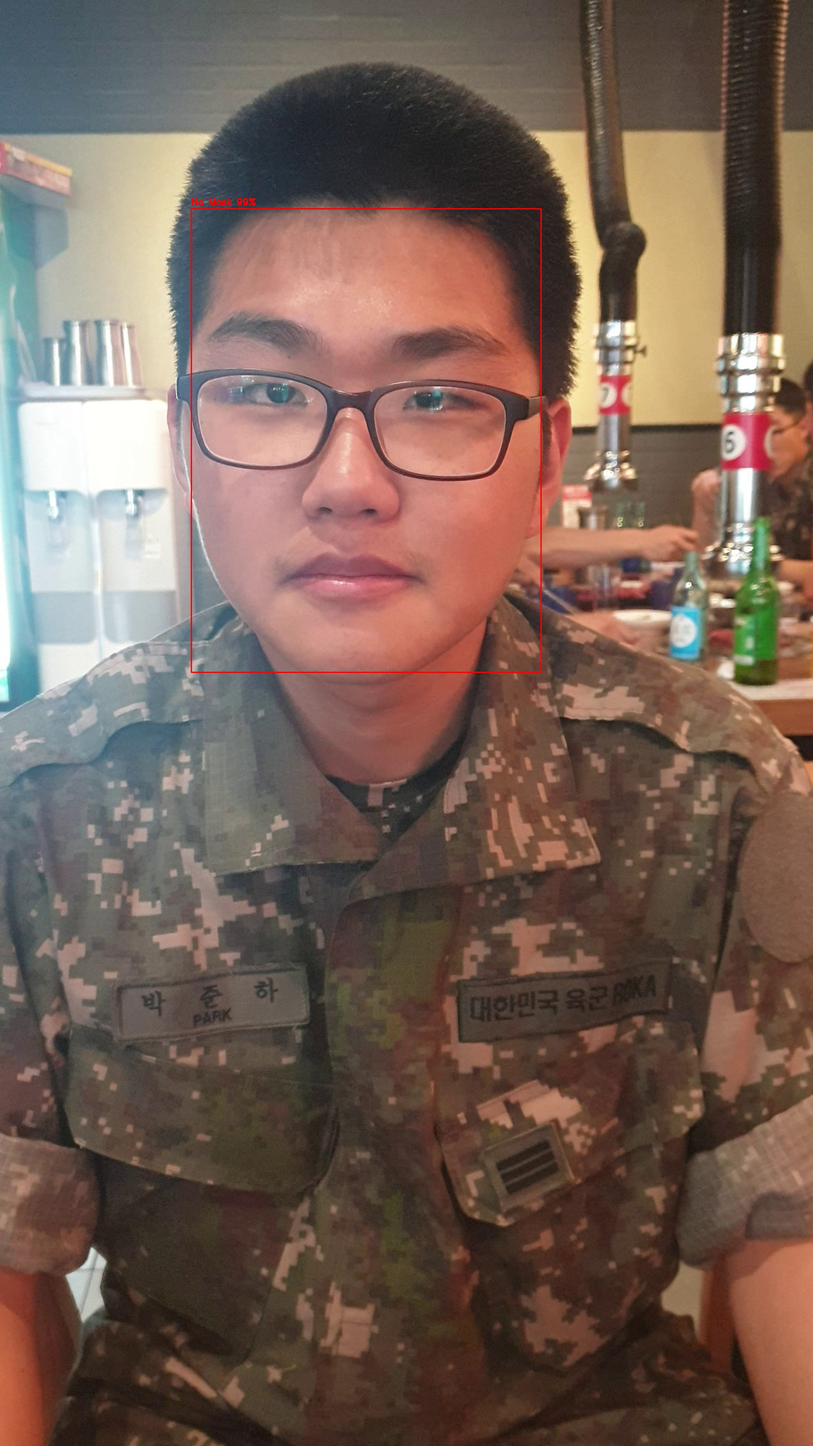
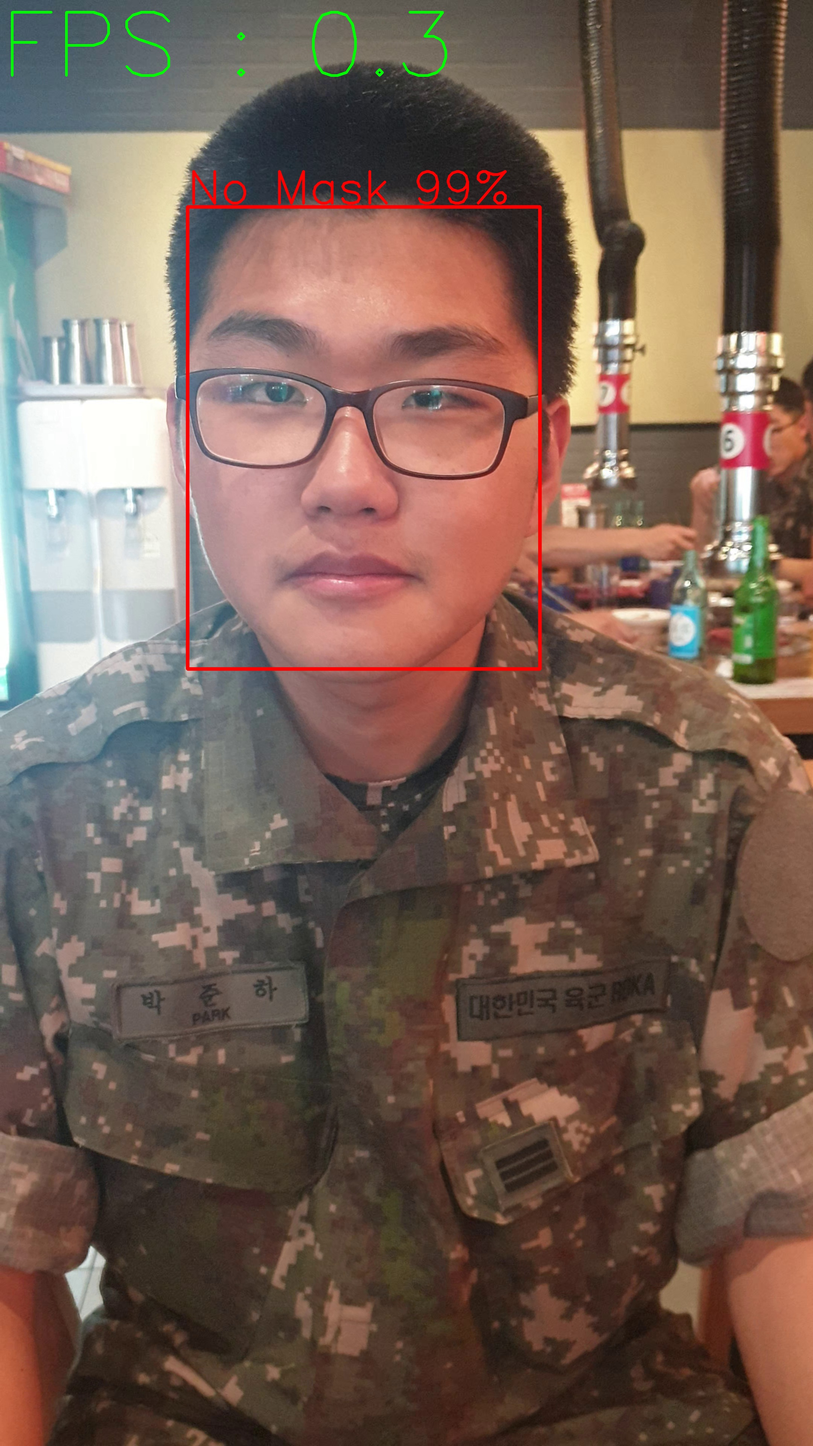
uimainpython03.py 실행하기

diff --git a/ui_main_python03.py b/ui_main_python03.py
@@ -1,5 +1,29 @@
 import sys
 
+# Data Set을 만들어서 학습.
+from tensorflow.keras.applications.mobilenet_v2 import preprocess_input
+from tensorflow.keras.models import load_model
+import numpy as np
+import cv2
+# import matplotlib.pyplot as plt
+import os, io
+import json
+import requests
+from google.cloud import vision
+#########################################################################텔레그렘 수정 내용
+import telepot
+
+
+import sys
+
+
+
+
+from collections import deque
+
+import time
+
+
 # import some PyQt5 modules
 from PyQt5.QtWidgets import QApplication
 from PyQt5.QtWidgets import QWidget
@@ -12,6 +36,24 @@ import cv2
 
 from ui_main_window_test03 import *
 
+
+
+
+
+
+
+# 구글 API 설정
+os.environ['GOOGLE_APPLICATION_CREDENTIALS'] = r'ServiceAccountToken.json'
+client = vision.ImageAnnotatorClient()
+
+
+facenet = cv2.dnn.readNet('MaskDetection/models/deploy.prototxt', 'MaskDetection/models/res10_300x300_ssd_iter_140000.caffemodel')
+# FaceDetector 모델 > OpenCv의 DNN
+model = load_model('MaskDetection/models/mask_detector.model')
+
+
+
+
 class MainWindow(QWidget):
     # class constructor
     def __init__(self):
@@ -19,6 +61,9 @@ class MainWindow(QWidget):
         super().__init__()
         self.ui = Ui_Form()
         self.ui.setupUi(self)
+        self.textdq = deque([])
+        self.prevTime = 0
+        self.number = 0
 
         # create a timer
         self.timer = QTimer()
@@ -31,13 +76,242 @@ class MainWindow(QWidget):
         self.timer.start(20)
 
 
-
+    def label_2_text(self, textdq):
+        TEXT = ""
+        if len(self.textdq) > 10:
+            textdq.pop()
+        for text in textdq:
+            TEXT += text + '\n'
+        self.ui.label_2.setText(TEXT)
     # view camera
     def viewCam(self):
+        ret, img = self.cap.read()
+        img = cv2.rotate(img, cv2.ROTATE_90_CLOCKWISE)
+        # 프레임
+        curTime = time.time()
+        sec = curTime - self.prevTime
+        self.prevTime = curTime
+        fps = 1/(sec)
+        FPS = "FPS : %0.1f" % fps
+        cv2.putText(img, FPS, (0, 200), cv2.FONT_HERSHEY_SIMPLEX, 8, (0, 255, 0), thickness=5)
         # read image in BGR format
-        ret, image = self.cap.read()
-        image = cv2.rotate(image, cv2.ROTATE_90_CLOCKWISE)
-        image = cv2.resize(image, dsize=(0, 0), fx=0.2, fy=0.2, interpolation=cv2.INTER_LINEAR)
+        
+
+        h, w = img.shape[:2]
+
+        blob = cv2.dnn.blobFromImage(img, scalefactor=1., size=(300, 300), mean=(104., 177., 123.))
+        # Preprocessing. OpenCV의 FaceNet에서 학습시킨대로 Param값을 넣어줌. DNN이 사용하는 형태로 이미지 변환
+        # cv2.dnn.blobFromImage함수가 하는 일은 1. Mean subtraction (평균 빼기) / 2.Scaling (이미지 사이즈 바꾸기) / 3.And optionally channel swapping (옵션, 이미지 채널 바꾸기)
+        # (104.0,177.0, 123.0)는 mean subtraction의 경험적 최적값. 그럼 mean subtraction이란 RGB값의 일부를 제외해서 dnn이 분석하기 쉽게 단순화해주는 것.
+        # (300,300) : dnn모듈이 CNN으로 처리하기 좋은 이미지 사이즈, 모델이 300,300으로 고정
+
+        facenet.setInput(blob)  # 변환해준 이미지 FaceNet의 input
+        dets = facenet.forward()  # facedection 결과 저장
+        result_img = img.copy()
+
+        # detect face 한뒤, 그 얼굴영역이 마스크 썼을 확률을 계산하여 추가한다.
+        for i in range(dets.shape[2]):  # 저장이 된 것을 loop을 돌면서 저장. detections.shape[2]는 모델이 가져오는 최대 박스의 갯수. 200이므로 최대 200개의 얼굴을 인식할수 있다.
+            confidence = dets[0, 0, i, 2]
+            # 검사하는데 detection의 결과가 자신있는 정도.
+            # detections[0, 0]은 우리가 그릴 박스"들"의 속성
+            # 따라서 i는 현재 i번째 박스. 2는 세번째 속성이 의미하는데 이게 얼굴일 확률을 나타냄.
+            if confidence < 0.5:
+                continue
+
+            x1 = int(dets[0, 0, i, 3] * w)  # bounding 박스 구해주기
+            y1 = int(dets[0, 0, i, 4] * h)
+            x2 = int(dets[0, 0, i, 5] * w)
+            y2 = int(dets[0, 0, i, 6] * h)
+            # print(i, confidence, x1, y1, x2, y2) i는 몇번째 얼굴인지, cofidence는 실제 얼굴이맞을 확률. 그 뒤는 좌표
+            face = img[y1:y2, x1:x2]  # bounding Box을 통해 얼굴만 저장
+
+            # 마스크를 썼나 안썼나 예측
+            # 전처리하는 부분
+            face_input = cv2.resize(face, dsize=(224, 224))  # 이미지 크기 변경
+            face_input = cv2.cvtColor(face_input, cv2.COLOR_BGR2RGB)  # 이미지의 컬러시스템 변경
+            face_input = preprocess_input(face_input)  # mobileNetV2에서 하는 preprocessing과 똑같이 하기위해 처리
+            face_input = np.expand_dims(face_input, axis=0)  # 이렇게 하면 shape이 (224,224,3) 으로 나오는데 넣을때는 (1,224,224,3)이 되어야 하므로 차원하나 추가
+
+            mask, nomask = model.predict(face_input).squeeze()  # load해놓은 모델에 predict method를 통해, 마스크 여부 확률을 반환
+
+            if mask > nomask:
+                color = (0, 255, 0)
+                label = 'Mask %d%%' % (mask * 100)
+            else:
+                color = (0, 0, 255)
+                label = 'No Mask %d%%' % (nomask * 100)
+
+            # mask 썼을확률 계산후 그에대한 결과를 보여주는 곳. 해당 얼굴영역보다 이전 인덱스는 이미 계산되어 이미지에 저장되어 있다.
+            cv2.rectangle(result_img, pt1=(x1, y1), pt2=(x2, y2), thickness=7, color=color, lineType=cv2.LINE_AA)
+            # 계산된 결과를 현재 돌아가고 있는 얼굴영역 위에 Text를 써줌으로써 표시한다. 마스크 썼을확률은 label에 들어있음.
+            cv2.putText(result_img, text=label, org=(x1, y1 - 10), fontFace=cv2.FONT_HERSHEY_SIMPLEX, fontScale=4, color=color, thickness=6, lineType=cv2.LINE_AA)
+
+            # 마스크 안썻을 확률이 일정확률 이상인 경우
+            if nomask >= 0.75:
+                # 해당 인원 사진 저장
+                #self.dq.appendleft(face)
+                # if len(self.dq)==4:
+                #     self.dq.pop()
+                self.number += 1
+                saved_file = 'No_Mask_File/' + str(i)+'_'+str('No_Mask%d%%_' % (nomask * 100) + str(self.number)) + '.jpg'
+                cv2.imwrite(saved_file, result_img)
+                #self.put_img_to_labels(self.dq)
+                temperature = 36.5  # 현재 온도 변수가 없으므로 임시로 설정
+
+
+                #############################################################################
+                # GoogleVisionAPI branch  에서 추가한 내용
+                IMAGE_FILE = 'No_Mask_File/' + str(i) + '_' + str('No_Mask%d%%_' % (nomask * 100) + str(self.number)) + '.jpg'
+                # FOLDER_PATH = r'C:\Users\Administrator\anaconda3\envs\VisionAPIDemo'
+                # FILE_PATH = os.path.join(FOLDER_PATH, IMAGE_FILE)
+                # Name_img = img[y2:h, 0:(x1+x2)/2]
+
+                # with io.open(Name_img, 'rb') as image_file:
+                #     content = image_file.read()
+
+
+
+                """
+                name_img = img[y2:h, 0:(x1+x2)//2]
+                is_success, im_buf_arr = cv2.imencode(".jpg",name_img)
+                io_buf = io.BytesIO(im_buf_arr)
+                byte_im = io_buf.getvalue()
+                image = vision.Image(content=byte_im)
+                response = client.document_text_detection(image=image)
+                docText = response.full_text_annotation.text
+                """
+
+
+
+                # with io.open(IMAGE_FILE, 'rb') as image_file:
+                #     content = image_file.read()
+
+                # image = vision.Image(content=content)
+                # response = client.document_text_detection(image=image)
+                # docText = response.full_text_annotation.text
+
+                with io.open(IMAGE_FILE, 'rb') as image_file:
+                    content = image_file.read()
+
+                image = vision.Image(content=content)
+                response = client.document_text_detection(image=image)
+                Final_Text = ""
+                for data in response.text_annotations:
+                    xx1 = data.bounding_poly.vertices[0].x - 60 # 박스가 너무 오른쪽으로 나옴 그래서 수정함.
+                    yy1 = data.bounding_poly.vertices[0].y
+                    xx2 = data.bounding_poly.vertices[2].x
+                    yy2 = data.bounding_poly.vertices[2].y + 20
+                    if xx1 > (x1+x2)//2 or xx2 > (x1+x2)//2:
+                        continue
+                    for x in data.description:
+                        if ord('가') <= ord(x) <= ord('힣'):
+                            cv2.rectangle(result_img, pt1=(xx1, yy1), pt2=(xx2, yy2), thickness=7, color=color, lineType=cv2.LINE_AA)
+                            Final_Text += x
+
+                #print('한글 -> ' + Final_Text)
+                #self.ui.label_2.setText(Final_Text)
+
+                    # cv2.rectangle(img, pt1=(xx1, yy1), pt2=(xx2, yy2), thickness=2, color=color, lineType=cv2.LINE_AA)
+                    # img_resize = cv2.resize(result_img, dsize=(0, 0), fx=0.2, fy=0.2, interpolation=cv2.INTER_LINEAR)
+                    # cv2.imshow('fram', img_resize)
+                    # cv2.waitKey(0)
+
+
+
+
+
+
+
+
+
+
+
+
+
+
+                """
+                # 한글만 가져오는 코드
+                Final_Text = ""
+                Flag = False
+                for x in docText:
+                    if ord('가') <= ord(x) <= ord('힣'):
+                        Flag = True
+                        Final_Text += x
+
+                print('한글 -> ' + Final_Text)
+
+                #############################################################################
+                message_description = '이름 :' + Final_Text + '\n해당인원 온도 :' + str(temperature) + '\n마스크 미착용 확률 : ' + str('%d%%' % (nomask * 100))
+                
+                
+                """
+
+                # 전달할 메시지 내용 JSON형식으로 저장후 전달
+                message_description = '이름 :' + Final_Text + '\n해당인원 온도 :' + str(temperature) + '\n마스크 미착용 확률 : ' + str('%d%%' % (nomask * 100))
+                # template = {
+                #     "object_type": "feed",
+                #     "content": {
+                #         "image_url": "IMAGE_URL, 클라이언트의 사진을 가져오거나 서버의 사진을 가져오기가 아닌 URL상에서 가져와야함",
+                #         "title": "이상증상자 및 마스크 미착용자 식별",
+                #         "description": message_description,
+                #         "image_width": 640,
+                #         "image_height": 640,
+                #         "link": {
+                #             "web_url": "http://www.daum.net",
+                #             "mobile_web_url": "http://m.daum.net",
+                #         }
+                #     }
+                # }
+                # data = {
+                #     # 허동준 UUID : MAIwCT4JPggkFiAVJhIhFCMbNwM6CzsLPnY
+                #     # 조동현 UUID : MAIzAjYFNQcxHSgaLh8qHi4aNgI7CjoKP28
+                #     # 친구목록에서 얻어온 UUID 값으로 해야 하므로 수정 필요
+                #     'receiver_uuids': '["MAIzAjYFNQcxHSgaLh8qHi4aNgI7CjoKP28"]',
+                #     "template_object": json.dumps(template)
+                # }
+                # # 메시지 전송 및 오류 검출
+                # response = requests.post(send_friend_url, headers=headers, data=data)
+                # print(response.status_code)
+                # if response.json().get('result_code') == 0:
+                #     print('메시지를 성공적으로 보냈습니다.')
+                # else:
+                #     print('메시지를 성공적으로 보내지 못했습니다. 오류메시지 : ' + str(response.json()))
+
+        #out.write(result_img)
+        #resized_img = cv2.resize(result_img, dsize=(0, 0), fx=0.3, fy=0.3, interpolation=cv2.INTER_LINEAR)
+        #cv2.imshow('result', result_img)  # 실시간 모니터링하고 있는 화면을 띄워줌
+
+
+
+
+
+
+
+
+
+
+
+
+
+
+
+
+
+
+        # # telegram 사진 문자 보내는 코드
+        # f = open(IMAGE_FILE,'rb')
+        # response = bot.sendPhoto(mc, f)
+        # response = bot.sendMessage(mc,message_description)
+
+
+        #
+        message_description2 = '이름 :' + Final_Text + ' 해당인원 온도 :' + str(temperature) + ' 마스크 미착용 확률 : ' + str('%d%%' % (nomask * 100))
+        self.textdq.appendleft(message_description2)
+    
+        self.label_2_text(self.textdq)
+        #self.ui.label_2.setText(self.textdq[0])
+        #image = cv2.rotate(image, cv2.ROTATE_90_CLOCKWISE)
+        image = cv2.resize(result_img, dsize=(0, 0), fx=0.2, fy=0.2, interpolation=cv2.INTER_LINEAR)
         # convert image to RGB format
         image = cv2.cvtColor(image, cv2.COLOR_BGR2RGB)
         # get image infos

diff --git a/ui_main_window_test03.py b/ui_main_window_test03.py
@@ -1,6 +1,6 @@
 # -*- coding: utf-8 -*-
 
-# Form implementation generated from reading ui file 'ui_main_window_test03.ui'
+# Form implementation generated from reading ui file 'ui_main_window_test02.ui'
 #
 # Created by: PyQt5 UI code generator 5.9.2
 #
@@ -11,17 +11,34 @@ from PyQt5 import QtCore, QtGui, QtWidgets
 class Ui_Form(object):
     def setupUi(self, Form):
         Form.setObjectName("Form")
-        Form.resize(903, 510)
+        Form.resize(1045, 677)
         self.horizontalLayout = QtWidgets.QHBoxLayout(Form)
         self.horizontalLayout.setObjectName("horizontalLayout")
         self.horizontalLayout_2 = QtWidgets.QHBoxLayout()
         self.horizontalLayout_2.setObjectName("horizontalLayout_2")
         self.main_video = QtWidgets.QLabel(Form)
+        self.main_video.setScaledContents(False)
         self.main_video.setObjectName("main_video")
         self.horizontalLayout_2.addWidget(self.main_video)
         self.thermal_video = QtWidgets.QLabel(Form)
+        self.thermal_video.setScaledContents(False)
         self.thermal_video.setObjectName("thermal_video")
         self.horizontalLayout_2.addWidget(self.thermal_video)
+        self.verticalLayout = QtWidgets.QVBoxLayout()
+        self.verticalLayout.setObjectName("verticalLayout")
+        self.label = QtWidgets.QLabel(Form)
+        self.label.setScaledContents(False)
+        self.label.setObjectName("label")
+        self.verticalLayout.addWidget(self.label)
+        self.label_2 = QtWidgets.QLabel(Form)
+        self.label_2.setScaledContents(False)
+        self.label_2.setObjectName("label_2")
+        self.verticalLayout.addWidget(self.label_2)
+        self.label_3 = QtWidgets.QLabel(Form)
+        self.label_3.setScaledContents(False)
+        self.label_3.setObjectName("label_3")
+        self.verticalLayout.addWidget(self.label_3)
+        self.horizontalLayout_2.addLayout(self.verticalLayout)
         self.horizontalLayout.addLayout(self.horizontalLayout_2)
 
         self.retranslateUi(Form)
@@ -30,8 +47,11 @@ class Ui_Form(object):
     def retranslateUi(self, Form):
         _translate = QtCore.QCoreApplication.translate
         Form.setWindowTitle(_translate("Form", "Cam view"))
-        self.main_video.setText(_translate("Form", "TextLabel"))
-        self.thermal_video.setText(_translate("Form", "TextLabel"))
+        self.main_video.setText(_translate("Form", "Main_Cam"))
+        self.thermal_video.setText(_translate("Form", "Thermal_Cam"))
+        self.label.setText(_translate("Form", "Face_Cam"))
+        self.label_2.setText(_translate("Form", "Log"))
+        self.label_3.setText(_translate("Form", "LOGO"))
 
 
 if __name__ == "__main__":
